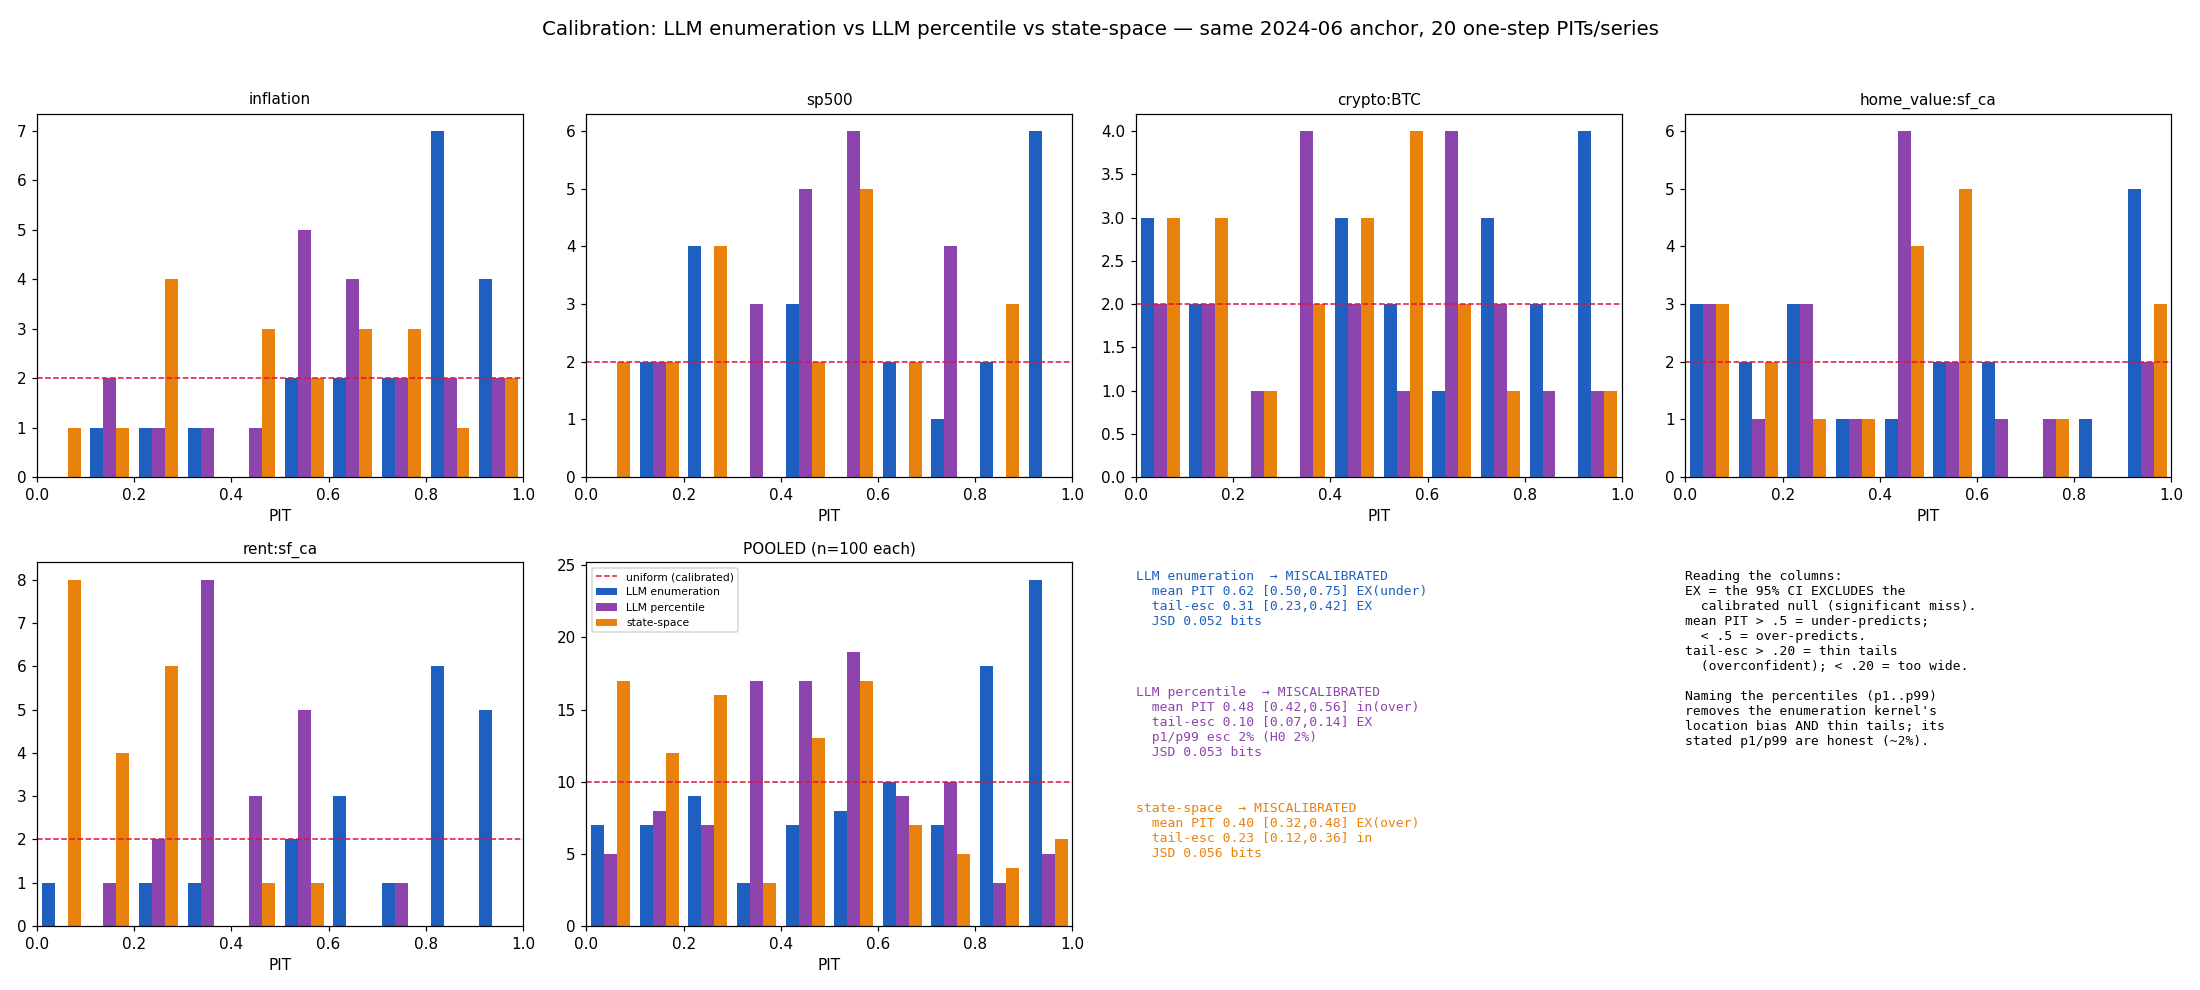
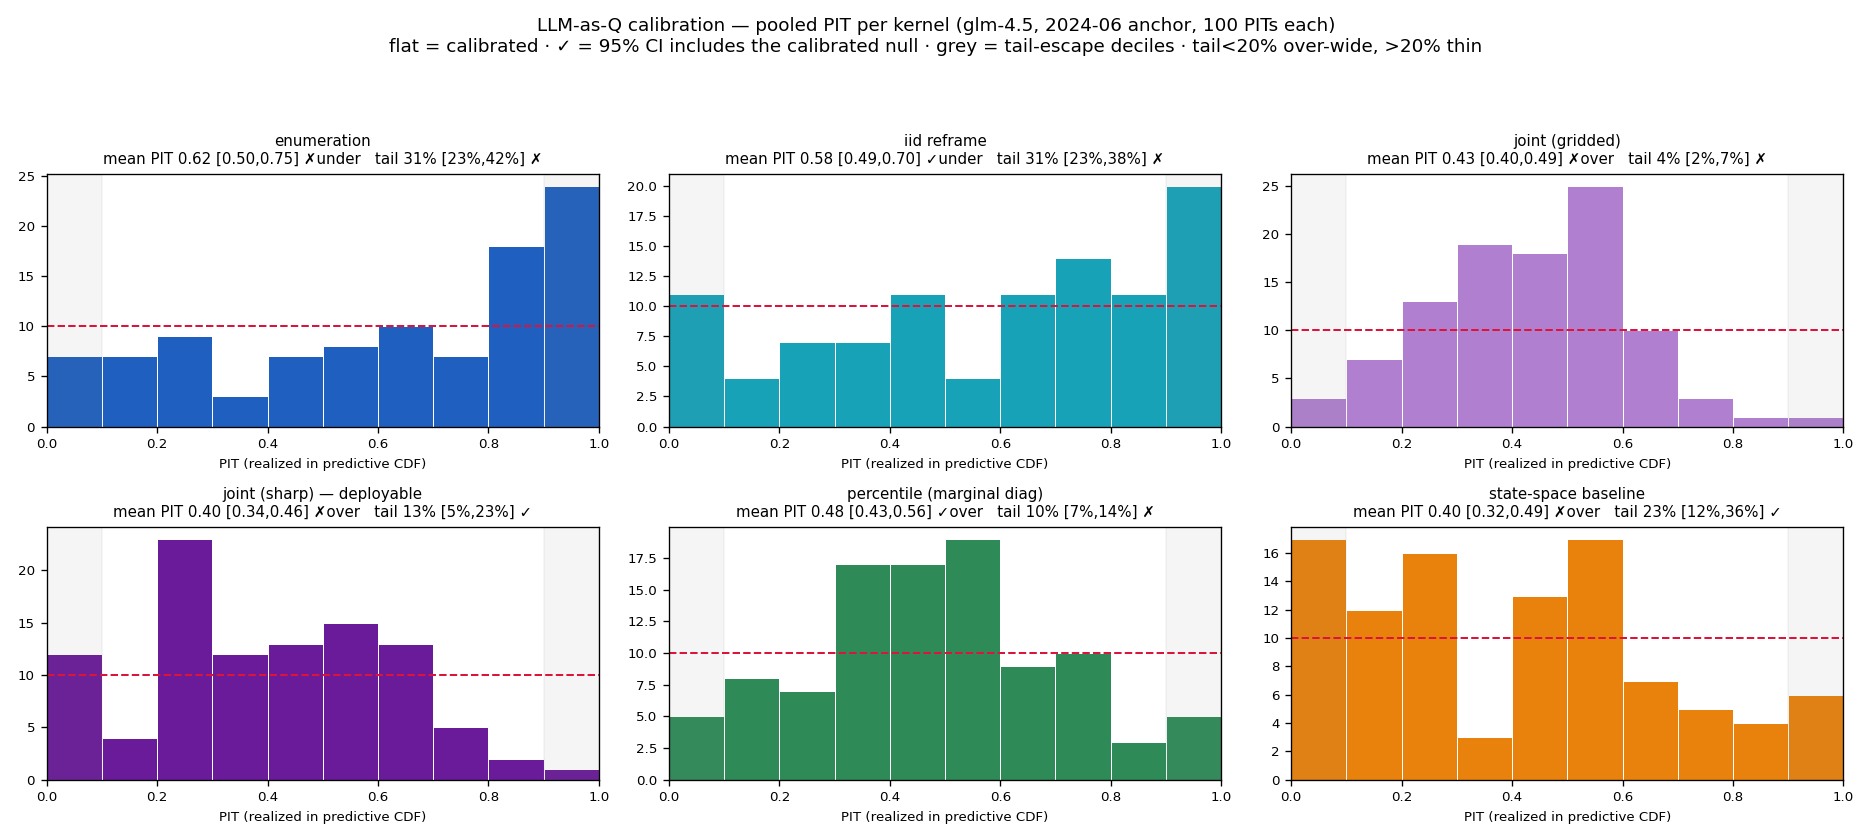
augur/x/pm_reifier: small-multiples calibration comparison (one PIT panel per kernel)
Grouped side-by-side columns are too noisy at 6 models; switch plot_compare to
small multiples — one pooled PIT histogram per kernel in its own color, with
the uniform reference, shaded tail-escape deciles, and block-bootstrap CIs
(mean PIT vs 0.5, tail-escape vs 0.20) with pass/fail marks in each title.
Covers enumeration, iid, joint gridded, joint sharp (deployable), percentile
(marginal diag), and the state-space baseline.

https://claude.ai/code/session_01Dp9mKVK2NCGd8bkJG2sopw

diff --git a/augur/x/pm_reifier/plot_compare.py b/augur/x/pm_reifier/plot_compare.py
@@ -1,13 +1,11 @@
-"""Three-way calibration comparison on the SAME 2024-06 window, 20 one-step PITs/series:
+"""Small-multiples calibration comparison: one mini PIT histogram per kernel, same 2024-06 window.
 
-  - LLM kernel, ENUMERATION proposal (results/backtest.json) — N weighted joint options.
-  - LLM kernel, PERCENTILE proposal (results/backtest_percentile.json) — elicited quantile function.
-  - structured STATE-SPACE model (results/backtest_statespace.json) — log-return Gaussian.
+Each panel is one model's POOLED PIT histogram (n=100) in its own color, with the uniform-calibrated
+reference line and the block-bootstrap 95% CI for mean PIT (H0=0.5) and tail-escape (H0=0.20). Grouped
+side-by-side columns get too noisy at this many models, so we use small multiples instead. The joint
+kernels are scored on their SAMPLES (samples = Q); the percentile kernel is a marginal-only diagnostic.
 
-All three are scored through the identical scorecard: pooled/per-series PIT histograms (grouped filled
-bars), mean PIT, tail-escape, JSD-to-uniform, and the serial-dependence-robust moving-block bootstrap
-95% CIs (mean PIT H0=0.5, tail-escape H0=0.20). Writes results/compare.png and results/compare_stats.json.
-
+Writes results/compare.png and results/compare_stats.json.
 Run: uv run --no-project --python 3.12 --with matplotlib --with numpy python augur/x/pm_reifier/plot_compare.py
 """
 
@@ -28,40 +26,29 @@ HERE = pathlib.Path(__file__).parent
 RESULTS = HERE / "results"
 SERIES = ["inflation", "sp500", "crypto:BTC", "home_value:sf_ca", "rent:sf_ca"]
 BINS = 10
-BLOCK = 4  # months per moving-block bootstrap block (keeps adjacent-month + cross-series dependence)
+BLOCK = 4  # moving-block bootstrap block length (months)
 REPS = 4000
 TAIL_NULL = 0.2
-# (label, results filename, color)
+# (label, results filename, pits-key in per_step, color)
 RUNS = [
-    ("LLM enumeration", "backtest.json", "#1f5fbf"),
-    ("LLM percentile", "backtest_percentile.json", "#8e44ad"),
-    ("state-space", "backtest_statespace.json", "#e8820c"),
+    ("enumeration", "backtest.json", "pits", "#1f5fbf"),
+    ("iid reframe", "backtest_iid.json", "pits", "#17a2b8"),
+    ("joint (gridded)", "backtest_joint.json", "pits_samp", "#b07fd0"),
+    ("joint (sharp) — deployable", "backtest_joint_sharp.json", "pits_samp", "#6a1b9a"),
+    ("percentile (marginal diag)", "backtest_percentile.json", "pits", "#2e8b57"),
+    ("state-space baseline", "backtest_statespace.json", "pits", "#e8820c"),
 ]
 random.seed(0)
-
-
-def jsd_to_uniform(vals: list[float], bins: int = BINS) -> float | None:
-    if len(vals) < bins:
-        return None
-    counts = [0.0] * bins
-    for u in vals:
-        counts[min(bins - 1, int(u * bins))] += 1
-    n = sum(counts)
-    p = [c / n for c in counts]
-    q = 1.0 / bins
-    m = [(pi + q) / 2 for pi in p]
-    kl = lambda a, b: sum(ai * math.log2(ai / bi) for ai, bi in zip(a, b, strict=True) if ai > 0)  # noqa: E731
-    return 0.5 * kl(p, m) + 0.5 * kl([q] * bins, m)
 
 
 def tail_rate(vals: list[float]) -> float:
     return sum(1 for u in vals if u <= 0.1 or u >= 0.9) / len(vals)
 
 
-def block_bootstrap_ci(month_pits: list[list[float]], statfn, reps: int = REPS) -> tuple[float, float]:
+def block_bootstrap_ci(month_pits: list[list[float]], statfn) -> tuple[float, float]:
     nblocks = math.ceil(len(month_pits) / BLOCK)
     out = []
-    for _ in range(reps):
+    for _ in range(REPS):
         sampled: list[list[float]] = []
         for _ in range(nblocks):
             start = random.randint(0, len(month_pits) - BLOCK)
@@ -69,121 +56,75 @@ def block_bootstrap_ci(month_pits: list[list[float]], statfn, reps: int = REPS) 
         pooled = [p for mm in sampled[: len(month_pits)] for p in mm]
         out.append(statfn(pooled))
     out.sort()
-    return out[int(0.025 * reps)], out[int(0.975 * reps)]
+    return out[int(0.025 * REPS)], out[int(0.975 * REPS)]
 
 
-def score(filename: str) -> dict:
-    bt = json.loads((RESULTS / filename).read_text())
-    steps = sorted(bt["per_step"], key=lambda r: r["month"])
-    by_series = {s: [r["pits"][s] for r in steps if s in r["pits"]] for s in SERIES}
-    pooled = [p for s in SERIES for p in by_series[s]]
-    month_pits = [list(r["pits"].values()) for r in steps if r["pits"]]
+def score(filename: str, pits_key: str) -> dict | None:
+    path = RESULTS / filename
+    if not path.is_file():
+        return None
+    steps = sorted(json.loads(path.read_text())["per_step"], key=lambda r: r["month"])
+    month_pits = [list(r[pits_key].values()) for r in steps if r.get(pits_key)]
+    pooled = [p for mm in month_pits for p in mm]
     mean_lo, mean_hi = block_bootstrap_ci(month_pits, lambda v: sum(v) / len(v))
     tail_lo, tail_hi = block_bootstrap_ci(month_pits, tail_rate)
-    mean_sig = not (mean_lo <= 0.5 <= mean_hi)
-    tail_sig = not (tail_lo <= TAIL_NULL <= tail_hi)
     return {
         "pooled": pooled,
-        "by_series": by_series,
         "mean_pit": float(np.mean(pooled)),
         "mean_ci": [mean_lo, mean_hi],
-        "mean_excludes_half": mean_sig,
+        "mean_excludes_half": not (mean_lo <= 0.5 <= mean_hi),
         "tail_rate": tail_rate(pooled),
         "tail_ci": [tail_lo, tail_hi],
-        "tail_excludes_null": tail_sig,
-        "jsd": jsd_to_uniform(pooled),
-        "p1_p99_escape_rate": bt.get("p1_p99_escape_rate"),
-        "verdict": "MISCALIBRATED" if (mean_sig or tail_sig) else "not significant",
+        "tail_excludes_null": not (tail_lo <= TAIL_NULL <= tail_hi),
     }
 
 
 def main() -> None:
-    scored = [(label, score(fn), color) for label, fn, color in RUNS]
-    edges = np.linspace(0, 1, BINS + 1)
-    centers = (edges[:-1] + edges[1:]) / 2
+    scored = [(label, score(fn, key), color) for label, fn, key, color in RUNS]
+    scored = [(label, s, color) for label, s, color in scored if s is not None]
     n = len(scored)
-    w = 0.8 / (BINS * n)  # n filled columns sit side by side within each PIT decile
+    ncols = 3
+    nrows = math.ceil(n / ncols)
+    fig, axes = plt.subplots(nrows, ncols, figsize=(5.2 * ncols, 3.5 * nrows), squeeze=False)
 
-    fig, axes = plt.subplots(2, 4, figsize=(20, 9))
-
-    def grouped(ax, getvals, expected: float, *, legend: bool = False) -> None:
-        for i, (label, run, color) in enumerate(scored):
-            counts = np.histogram(getvals(run), bins=edges)[0]
-            offset = (i - (n - 1) / 2) * w
-            ax.bar(centers + offset, counts, width=w, color=color, label=label if legend else None)
-        ax.axhline(expected, ls="--", color="crimson", lw=1, label="uniform (calibrated)" if legend else None)
-        ax.set_xlim(0, 1)
-        ax.set_xlabel("PIT")
-
-    for ax, s in [(axes[0, 0], SERIES[0]), (axes[0, 1], SERIES[1]), (axes[0, 2], SERIES[2]), (axes[0, 3], SERIES[3])]:
-        grouped(ax, lambda run, s=s: run["by_series"][s], 20 / BINS)
-        ax.set_title(s, fontsize=10)
-    grouped(axes[1, 0], lambda run: run["by_series"]["rent:sf_ca"], 20 / BINS)
-    axes[1, 0].set_title("rent:sf_ca", fontsize=10)
-    grouped(axes[1, 1], lambda run: run["pooled"], 100 / BINS, legend=True)
-    axes[1, 1].set_title("POOLED (n=100 each)", fontsize=10)
-    axes[1, 1].legend(fontsize=7)
-
-    # stats table panel
-    sx = axes[1, 2]
-    sx.axis("off")
-    lines = ["calibration scorecard (block-bootstrap 95% CI)\n"]
-    for label, run, _color in scored:
+    for ax, (label, run, color) in zip(axes.flat, scored, strict=False):
+        vals = run["pooled"]
+        ax.hist(vals, bins=BINS, range=(0, 1), color=color, edgecolor="white", linewidth=0.6)
+        ax.axhline(len(vals) / BINS, ls="--", color="crimson", lw=1.2)  # uniform = calibrated
+        # shade the two tail deciles (escape region)
+        ax.axvspan(0, 0.1, color="grey", alpha=0.08)
+        ax.axvspan(0.9, 1.0, color="grey", alpha=0.08)
         m_lo, m_hi = run["mean_ci"]
         t_lo, t_hi = run["tail_ci"]
         bias = "under" if run["mean_pit"] > 0.5 else "over"
-        p1p99 = (
-            f"  p1/p99 esc {run['p1_p99_escape_rate']:.0%} (H0 2%)\n" if run["p1_p99_escape_rate"] is not None else ""
+        ax.set_title(
+            f"{label}\n"
+            f"mean PIT {run['mean_pit']:.2f} [{m_lo:.2f},{m_hi:.2f}] {'✗' if run['mean_excludes_half'] else '✓'}{bias}   "
+            f"tail {run['tail_rate']:.0%} [{t_lo:.0%},{t_hi:.0%}] {'✗' if run['tail_excludes_null'] else '✓'}",
+            fontsize=9,
         )
-        lines.append(
-            f"{label}  → {run['verdict']}\n"
-            f"  mean PIT {run['mean_pit']:.2f} [{m_lo:.2f},{m_hi:.2f}]"
-            f" {'EX' if run['mean_excludes_half'] else 'in'}({bias})\n"
-            f"  tail-esc {run['tail_rate']:.2f} [{t_lo:.2f},{t_hi:.2f}]"
-            f" {'EX' if run['tail_excludes_null'] else 'in'}\n"
-            f"{p1p99}  JSD {run['jsd']:.3f} bits\n"
-        )
-    for i, (_label, _run, color) in enumerate(scored):
-        sx.text(0.0, 0.98 - i * 0.32, lines[i + 1], va="top", ha="left", family="monospace", fontsize=8.5, color=color)
+        ax.set_xlim(0, 1)
+        ax.set_xlabel("PIT (realized in predictive CDF)", fontsize=8)
+        ax.tick_params(labelsize=8)
 
-    nx = axes[1, 3]
-    nx.axis("off")
-    nx.text(
-        0.0,
-        0.98,
-        "Reading the columns:\n"
-        "EX = the 95% CI EXCLUDES the\n"
-        "  calibrated null (significant miss).\n"
-        "mean PIT > .5 = under-predicts;\n"
-        "  < .5 = over-predicts.\n"
-        "tail-esc > .20 = thin tails\n"
-        "  (overconfident); < .20 = too wide.\n\n"
-        "Naming the percentiles (p1..p99)\n"
-        "removes the enumeration kernel's\n"
-        "location bias AND thin tails; its\n"
-        "stated p1/p99 are honest (~2%).",
-        va="top",
-        ha="left",
-        family="monospace",
-        fontsize=8.5,
-    )
+    for ax in axes.flat[n:]:
+        ax.axis("off")
 
     fig.suptitle(
-        "Calibration: LLM enumeration vs LLM percentile vs state-space — same 2024-06 anchor, 20 one-step PITs/series",
-        fontsize=13,
+        "LLM-as-Q calibration — pooled PIT per kernel (glm-4.5, 2024-06 anchor, 100 PITs each)\n"
+        "flat = calibrated · ✓ = 95% CI includes the calibrated null · grey = tail-escape deciles · "
+        "tail<20% over-wide, >20% thin",
+        fontsize=11,
     )
-    fig.tight_layout(rect=(0, 0, 1, 0.96))
+    fig.tight_layout(rect=(0, 0, 1, 0.93))
     out = RESULTS / "compare.png"
-    fig.savefig(out, dpi=110)
+    fig.savefig(out, dpi=120)
 
-    stats_out = {label: {k: v for k, v in run.items() if k not in ("pooled", "by_series")} for label, run, _ in scored}
+    stats_out = {label: {k: v for k, v in run.items() if k != "pooled"} for label, run, _ in scored}
     (RESULTS / "compare_stats.json").write_text(json.dumps(stats_out, indent=2) + "\n")
     print(f"wrote {out}")
     for label, run, _ in scored:
-        print(
-            f"  {label:18} mean PIT {run['mean_pit']:.2f} {run['mean_ci']}  "
-            f"tail {run['tail_rate']:.2f} {run['tail_ci']}  JSD {run['jsd']:.3f}  → {run['verdict']}"
-        )
+        print(f"  {label:32} mean PIT {run['mean_pit']:.2f}  tail {run['tail_rate']:.0%}")
 
 
 if __name__ == "__main__":
